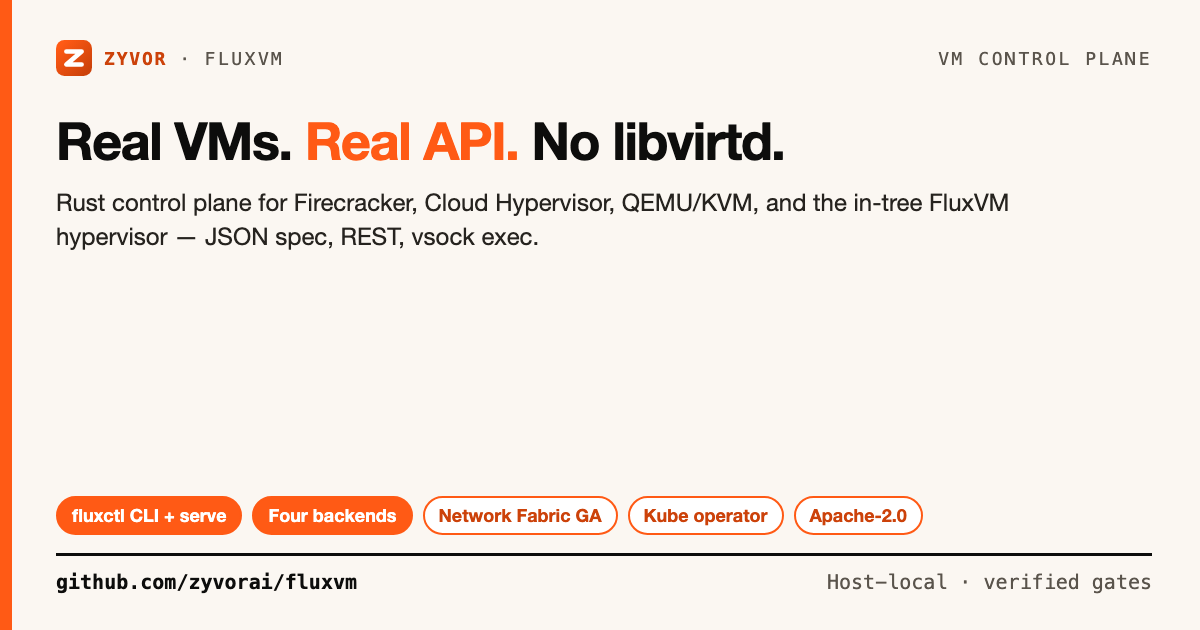
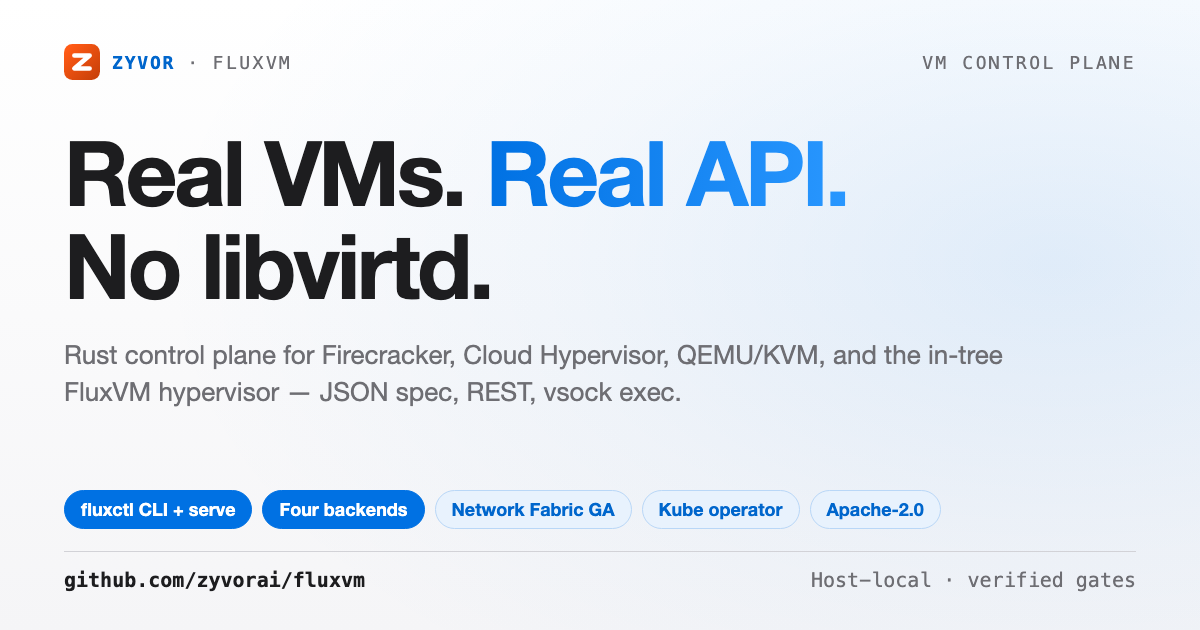
docs(social): apple-style blue/white hero, dark variant and cards
Regenerates the README hero as a light and a dark SVG/PNG (1x and 2x) from
one palette-driven generator, restyles the share and LinkedIn cards with the
same blue/white system, and documents the rebuild and the manual GitHub
social-preview upload. Orange appears once, as a dot on the FluxVM
hypervisor card.

Changed region(s): [[0.0, 0.0, 0.9867, 1.0], [0.7708, 0.0603, 0.9558, 0.1206]]

diff --git a/docs/social/fluxvm-social-card.html b/docs/social/fluxvm-social-card.html
@@ -4,38 +4,38 @@
 <meta charset="utf-8">
 <title>FluxVM social card</title>
 <style>
-  :root { --ink:#0d0d0c; --soft:#5a544c; --signal:#ff5a15; --deep:#cc420a; --warm:#fbf7f2;
-    --blue:#2b5fd9; --green:#1f7a4d;
+  :root { --ink:#1d1d1f; --soft:#6e6e73; --hair:#d2d2d7; --blue:#0071e3; --blue2:#2997ff; --deep:#0066cc; --wash:#f5f5f7; --navy:#0a4fa8;
     --sans:'Helvetica Neue',Helvetica,Arial,sans-serif; --mono:'SF Mono',Menlo,Consolas,monospace; }
   * { box-sizing:border-box; }
   html,body { margin:0; padding:0; }
-  body { width:1600px; height:900px; overflow:hidden; background:var(--warm); color:var(--ink); font-family:var(--sans); position:relative; }
-  .bar { position:absolute; left:0; top:0; bottom:0; width:14px; background:var(--signal); }
-  .wrap { position:absolute; left:72px; right:64px; top:48px; bottom:40px; display:flex; flex-direction:column; }
+  body { width:1600px; height:900px; overflow:hidden; color:var(--ink); font-family:var(--sans); position:relative;
+    background:radial-gradient(1200px 700px at 90% 38%, rgba(0,113,227,.10), rgba(0,113,227,.035) 55%, rgba(0,113,227,0) 100%), linear-gradient(180deg,#fff 0%,var(--wash) 100%); }
+  .bar { display:none; }
+  .wrap { position:absolute; left:80px; right:80px; top:52px; bottom:44px; display:flex; flex-direction:column; }
   .top { display:flex; align-items:center; gap:14px; font-family:var(--mono); font-size:20px; letter-spacing:.14em; text-transform:uppercase; color:var(--soft); }
   .top img { height:40px; }
   .top b { color:var(--deep); letter-spacing:.1em; }
   .top .r { margin-left:auto; }
-  h1 { margin:26px 0 0; font-size:68px; line-height:1.06; letter-spacing:-.025em; font-weight:700; max-width:1440px; }
-  h1 em { font-style:normal; color:var(--signal); }
-  .sub { margin:16px 0 0; font-size:27px; line-height:1.36; color:#26231f; max-width:1320px; }
-  .flow { margin-top:34px; display:grid; grid-template-columns:repeat(5,1fr); gap:34px; }
-  .step { position:relative; background:#fff; border:2.5px solid var(--c); border-radius:16px; padding:18px 20px 18px 24px; min-height:222px; }
-  .step::before { content:""; position:absolute; left:0; top:0; bottom:0; width:9px; background:var(--c); border-radius:13px 0 0 13px; }
-  .step:not(:last-child)::after { content:""; position:absolute; right:-31px; top:50%; width:0; height:0; margin-top:-11px;
-    border-left:16px solid var(--soft); border-top:11px solid transparent; border-bottom:11px solid transparent; }
-  .lane { display:inline-block; font-family:var(--mono); font-size:15px; font-weight:700; letter-spacing:.12em; color:#fff; background:var(--c); padding:3px 10px; border-radius:11px; }
-  .n { float:right; width:34px; height:34px; border-radius:50%; background:var(--c); color:#fff; font-weight:700; font-size:19px; line-height:34px; text-align:center; }
-  .step h3 { margin:14px 0 8px; font-size:27px; line-height:1.14; letter-spacing:-.01em; }
-  .step p { margin:0; font-size:20.5px; line-height:1.34; color:var(--soft); }
-  .k { --c:var(--signal); } .a { --c:var(--ink); } .c { --c:var(--blue); } .o { --c:var(--green); } .o2 { --c:var(--deep); }
-  .attr { margin-top:22px; display:flex; align-items:center; gap:16px; background:var(--ink); color:#f3ede4; border-radius:12px; padding:13px 22px; font-family:var(--mono); font-size:22px; white-space:nowrap; }
-  .attr .tag { color:var(--signal); font-weight:700; letter-spacing:.1em; font-size:16px; }
-  .attr .why { margin-left:auto; color:#a39a8d; font-size:15px; letter-spacing:.06em; text-transform:uppercase; }
+  h1 { margin:30px 0 0; font-size:78px; line-height:1.04; letter-spacing:-.03em; font-weight:700; max-width:1440px; }
+  h1 em { font-style:normal; background:linear-gradient(90deg,var(--blue),var(--blue2)); -webkit-background-clip:text; background-clip:text; color:transparent; }
+  .sub { margin:18px 0 0; font-size:27px; line-height:1.38; color:var(--soft); max-width:1320px; }
+  .flow { margin-top:36px; display:grid; grid-template-columns:repeat(5,1fr); gap:34px; }
+  .step { position:relative; background:#fff; border:1.5px solid var(--hair); border-radius:20px; padding:20px 20px 18px 26px; min-height:222px; box-shadow:0 10px 24px rgba(0,0,0,.06); }
+  .step::before { content:""; position:absolute; left:0; top:22px; bottom:22px; width:5px; background:var(--c); border-radius:0 4px 4px 0; }
+  .step:not(:last-child)::after { content:""; position:absolute; right:-30px; top:50%; width:0; height:0; margin-top:-10px;
+    border-left:14px solid #b0b0b5; border-top:10px solid transparent; border-bottom:10px solid transparent; }
+  .lane { display:inline-block; font-family:var(--mono); font-size:15px; font-weight:700; letter-spacing:.12em; color:#fff; background:var(--c); padding:4px 11px; border-radius:11px; }
+  .n { float:right; width:34px; height:34px; border-radius:50%; background:#f0f0f3; color:var(--ink); font-weight:700; font-size:18px; line-height:34px; text-align:center; }
+  .step h3 { margin:16px 0 8px; font-size:27px; line-height:1.14; letter-spacing:-.01em; }
+  .step p { margin:0; font-size:20.5px; line-height:1.36; color:var(--soft); }
+  .k { --c:var(--blue); } .a { --c:var(--ink); } .c { --c:var(--blue2); } .o { --c:var(--navy); } .o2 { --c:#6e6e73; }
+  .attr { margin-top:24px; display:flex; align-items:center; gap:16px; background:var(--ink); color:#f5f5f7; border-radius:16px; padding:14px 24px; font-family:var(--mono); font-size:22px; white-space:nowrap; }
+  .attr .tag { color:var(--blue2); font-weight:700; letter-spacing:.1em; font-size:16px; }
+  .attr .why { margin-left:auto; color:#a1a1a6; font-size:15px; letter-spacing:.06em; text-transform:uppercase; }
   .chips { margin-top:auto; padding-top:22px; display:flex; flex-wrap:wrap; gap:10px; }
-  .chip { font-size:20px; font-weight:700; padding:5px 14px; border-radius:20px; background:var(--signal); color:#fff; border:2px solid var(--signal); }
-  .chip.g { background:#fff; color:var(--deep); border:2px solid var(--signal); }
-  .foot { margin-top:18px; padding-top:14px; border-top:3px solid var(--ink); display:flex; align-items:center; font-family:var(--mono); font-size:22px; color:var(--soft); }
+  .chip { font-size:20px; font-weight:700; padding:6px 16px; border-radius:22px; background:var(--blue); color:#fff; border:1.5px solid var(--blue); }
+  .chip.g { background:#e8f2fd; color:var(--deep); border:1.5px solid #b9d7f7; }
+  .foot { margin-top:18px; padding-top:16px; border-top:1px solid var(--hair); display:flex; align-items:center; font-family:var(--mono); font-size:22px; color:var(--soft); }
   .foot b { color:var(--ink); }
   .foot .r { margin-left:auto; }
 </style>

diff --git a/docs/social/fluxvm-share-card.html b/docs/social/fluxvm-share-card.html
@@ -4,24 +4,25 @@
 <meta charset="utf-8">
 <title>FluxVM share card</title>
 <style>
-  :root { --ink:#0d0d0c; --soft:#5a544c; --signal:#ff5a15; --deep:#cc420a; --warm:#fbf7f2;
+  :root { --ink:#1d1d1f; --soft:#6e6e73; --hair:#d2d2d7; --blue:#0071e3; --blue2:#2997ff; --deep:#0066cc; --wash:#f5f5f7;
     --sans:'Helvetica Neue',Helvetica,Arial,sans-serif; --mono:'SF Mono',Menlo,Consolas,monospace; }
   * { box-sizing:border-box; }
   html,body { margin:0; padding:0; }
-  body { width:1200px; height:630px; overflow:hidden; background:var(--warm); color:var(--ink); font-family:var(--sans); position:relative; }
-  .bar { position:absolute; left:0; top:0; bottom:0; width:12px; background:var(--signal); }
-  .wrap { position:absolute; left:56px; right:48px; top:40px; bottom:36px; display:flex; flex-direction:column; }
+  body { width:1200px; height:630px; overflow:hidden; color:var(--ink); font-family:var(--sans); position:relative;
+    background:radial-gradient(900px 520px at 88% 42%, rgba(0,113,227,.11), rgba(0,113,227,.04) 55%, rgba(0,113,227,0) 100%), linear-gradient(180deg,#fff 0%,var(--wash) 100%); }
+  .bar { display:none; }
+  .wrap { position:absolute; left:64px; right:64px; top:44px; bottom:38px; display:flex; flex-direction:column; }
   .top { display:flex; align-items:center; gap:12px; font-family:var(--mono); font-size:18px; letter-spacing:.14em; text-transform:uppercase; color:var(--soft); }
   .top img { height:36px; }
   .top b { color:var(--deep); letter-spacing:.1em; }
   .top .r { margin-left:auto; }
-  h1 { margin:36px 0 0; font-size:52px; line-height:1.08; letter-spacing:-.025em; font-weight:700; max-width:1080px; }
-  h1 em { font-style:normal; color:var(--signal); }
-  .sub { margin:18px 0 0; font-size:24px; line-height:1.4; color:#26231f; max-width:980px; }
-  .chips { margin-top:auto; display:flex; flex-wrap:wrap; gap:10px; padding-bottom:18px; }
-  .chip { font-size:18px; font-weight:700; padding:6px 14px; border-radius:20px; background:var(--signal); color:#fff; border:2px solid var(--signal); }
-  .chip.g { background:#fff; color:var(--deep); border:2px solid var(--signal); }
-  .foot { padding-top:14px; border-top:3px solid var(--ink); display:flex; align-items:center; font-family:var(--mono); font-size:20px; color:var(--soft); }
+  h1 { margin:46px 0 0; font-size:90px; line-height:1.03; letter-spacing:-.035em; font-weight:700; max-width:1080px; }
+  h1 em { font-style:normal; background:linear-gradient(90deg,var(--blue),var(--blue2)); -webkit-background-clip:text; background-clip:text; color:transparent; }
+  .sub { margin:26px 0 0; font-size:26px; line-height:1.42; color:var(--soft); max-width:980px; }
+  .chips { margin-top:auto; display:flex; flex-wrap:wrap; gap:10px; padding-bottom:22px; }
+  .chip { font-size:18px; font-weight:700; padding:7px 16px; border-radius:22px; background:var(--blue); color:#fff; border:1.5px solid var(--blue); }
+  .chip.g { background:#e8f2fd; color:var(--deep); border:1.5px solid #b9d7f7; }
+  .foot { padding-top:16px; border-top:1px solid var(--hair); display:flex; align-items:center; font-family:var(--mono); font-size:20px; color:var(--soft); }
   .foot b { color:var(--ink); }
   .foot .r { margin-left:auto; }
 </style>
@@ -30,7 +31,7 @@
 <div class="bar"></div>
 <div class="wrap">
   <div class="top"><img src="zyvor-logo.svg" alt=""><b>Zyvor</b><span>&middot;</span><span>FluxVM</span><span class="r">VM control plane</span></div>
-  <h1>Real VMs. <em>Real API.</em> No libvirtd.</h1>
+  <h1>Real VMs. <em>Real API.</em><br>No libvirtd.</h1>
   <p class="sub">Rust control plane for Firecracker, Cloud Hypervisor, QEMU/KVM, and the in-tree FluxVM hypervisor — JSON spec, REST, vsock exec.</p>
   <div class="chips">
     <span class="chip">fluxctl CLI + serve</span>

diff --git a/docs/social/build-social-svg.py b/docs/social/build-social-svg.py
@@ -1,0 +1,142 @@
+import sys  # usage: python3 docs/social/build-social-svg.py docs/assets
+LIGHT = dict(
+    bg0="#ffffff", bg1="#f5f5f7", wash="#0071e3", wash_op="0.10", wash2_op="0.05",
+    ink="#1d1d1f", sec="#6e6e73", card="#ffffff", card_stroke="#d2d2d7", shadow_op="0.10",
+    blue0="#0071e3", blue1="#2997ff", link="#0071e3",
+    chip_fill="#e8f2fd", chip_text="#0066cc", chip_stroke="#b9d7f7",
+    wire="#0071e3", grid_op="0.0", tile_txt="#ffffff", api_sub="#dcecff", card_hi="#0071e3",
+    hair="#e5e5ea")
+DARK = dict(
+    bg0="#000000", bg1="#0b0b0f", wash="#2997ff", wash_op="0.20", wash2_op="0.08",
+    ink="#f5f5f7", sec="#a1a1a6", card="#1c1c1e", card_stroke="#3a3a3c", shadow_op="0.55",
+    blue0="#0a84ff", blue1="#5eb0ff", link="#2997ff",
+    chip_fill="#0b2542", chip_text="#66b2ff", chip_stroke="#17426f",
+    wire="#2997ff", grid_op="0.0", tile_txt="#ffffff", api_sub="#d6e9ff", card_hi="#2997ff",
+    hair="#2c2c2e")
+
+def svg(p):
+    return f'''<svg xmlns="http://www.w3.org/2000/svg" width="1280" height="640" viewBox="0 0 1280 640" role="img" aria-label="FluxVM — Real VMs. Real API. One Rust control plane and one REST API for Firecracker, Cloud Hypervisor, QEMU/KVM and the FluxVM hypervisor. No libvirtd, no XML.">
+  <defs>
+    <linearGradient id="bg" x1="0" y1="0" x2="0" y2="640" gradientUnits="userSpaceOnUse">
+      <stop offset="0" stop-color="{p['bg0']}"/>
+      <stop offset="1" stop-color="{p['bg1']}"/>
+    </linearGradient>
+    <radialGradient id="wash" cx="1010" cy="300" r="520" gradientUnits="userSpaceOnUse">
+      <stop offset="0" stop-color="{p['wash']}" stop-opacity="{p['wash_op']}"/>
+      <stop offset="0.6" stop-color="{p['wash']}" stop-opacity="{p['wash2_op']}"/>
+      <stop offset="1" stop-color="{p['wash']}" stop-opacity="0"/>
+    </radialGradient>
+    <linearGradient id="blue" x1="0" y1="0" x2="1" y2="1">
+      <stop offset="0" stop-color="{p['blue0']}"/>
+      <stop offset="1" stop-color="{p['blue1']}"/>
+    </linearGradient>
+    <linearGradient id="blueText" x1="78" y1="0" x2="470" y2="0" gradientUnits="userSpaceOnUse">
+      <stop offset="0" stop-color="{p['blue0']}"/>
+      <stop offset="1" stop-color="{p['blue1']}"/>
+    </linearGradient>
+    <linearGradient id="wire" x1="0" y1="0" x2="1" y2="0">
+      <stop offset="0" stop-color="{p['wire']}" stop-opacity="0.9"/>
+      <stop offset="1" stop-color="{p['wire']}" stop-opacity="0.35"/>
+    </linearGradient>
+    <filter id="shadow" x="-20%" y="-30%" width="140%" height="180%" color-interpolation-filters="sRGB">
+      <feGaussianBlur in="SourceAlpha" stdDeviation="9"/>
+      <feOffset dy="8" result="b"/>
+      <feColorMatrix in="b" type="matrix" values="0 0 0 0 0  0 0 0 0 0  0 0 0 0 0  0 0 0 {p['shadow_op']} 0" result="s"/>
+      <feMerge><feMergeNode in="s"/><feMergeNode in="SourceGraphic"/></feMerge>
+    </filter>
+    <filter id="glow" x="-30%" y="-40%" width="160%" height="200%" color-interpolation-filters="sRGB">
+      <feGaussianBlur in="SourceAlpha" stdDeviation="14"/>
+      <feOffset dy="12" result="b"/>
+      <feColorMatrix in="b" type="matrix" values="0 0 0 0 0.0  0 0 0 0 0.35  0 0 0 0 0.9  0 0 0 0.30 0" result="s"/>
+      <feMerge><feMergeNode in="s"/><feMergeNode in="SourceGraphic"/></feMerge>
+    </filter>
+  </defs>
+
+  <rect width="1280" height="640" fill="url(#bg)"/>
+  <rect width="1280" height="640" fill="url(#wash)"/>
+
+  <!-- brand lockup -->
+  <rect x="80" y="64" width="64" height="64" rx="15" fill="url(#blue)"/>
+  <path d="M96.5 79.5 127.5 79.5 96.5 112.5 127.5 112.5" fill="none" stroke="#ffffff"
+        stroke-width="8" stroke-linecap="round" stroke-linejoin="round"/>
+  <text x="162" y="108" font-family="'Helvetica Neue',Helvetica,Arial,sans-serif"
+        font-size="40" font-weight="700" fill="{p['ink']}" letter-spacing="-0.8">FluxVM</text>
+
+  <!-- headline -->
+  <text font-family="'Helvetica Neue',Helvetica,Arial,sans-serif" font-size="80" font-weight="700"
+        letter-spacing="-2.4">
+    <tspan x="76" y="252" fill="{p['ink']}">Real VMs.</tspan>
+    <tspan x="76" y="336" fill="url(#blueText)">Real API.</tspan>
+  </text>
+
+  <!-- sub -->
+  <g font-family="'Helvetica Neue',Helvetica,Arial,sans-serif" font-size="26" fill="{p['sec']}">
+    <text x="80" y="398">One Rust control plane. One REST API.</text>
+    <text x="80" y="434">No libvirtd, no XML.</text>
+  </g>
+
+  <!-- proof chips -->
+  <g font-family="'Menlo','JetBrains Mono',monospace" font-size="17" font-weight="700" fill="{p['chip_text']}">
+    <rect x="80" y="478" width="222" height="46" rx="23" fill="{p['chip_fill']}" stroke="{p['chip_stroke']}"/>
+    <text x="102" y="507">Network Fabric GA</text>
+    <rect x="316" y="478" width="150" height="46" rx="23" fill="{p['chip_fill']}" stroke="{p['chip_stroke']}"/>
+    <text x="338" y="507">Apache-2.0</text>
+    <rect x="480" y="478" width="242" height="46" rx="23" fill="{p['chip_fill']}" stroke="{p['chip_stroke']}"/>
+    <text x="502" y="507">k3s + 2-host tested</text>
+  </g>
+
+  <!-- diagram: one API fans out to four VMMs -->
+  <g>
+    <g fill="none" stroke="url(#wire)" stroke-width="2.5" stroke-linecap="round">
+      <path d="M912 320 C 940 320, 940 170, 956 170"/>
+      <path d="M912 320 C 940 320, 940 266, 956 266"/>
+      <path d="M912 320 C 940 320, 940 374, 956 374"/>
+      <path d="M912 320 C 940 320, 940 470, 956 470"/>
+    </g>
+    <g fill="{p['wire']}">
+      <circle cx="912" cy="320" r="5.5"/>
+      <circle cx="956" cy="170" r="4.5"/>
+      <circle cx="956" cy="266" r="4.5"/>
+      <circle cx="956" cy="374" r="4.5"/>
+      <circle cx="956" cy="470" r="4.5"/>
+    </g>
+
+    <rect x="722" y="262" width="190" height="116" rx="26" fill="url(#blue)" filter="url(#glow)"/>
+    <text x="817" y="312" text-anchor="middle" font-family="'Helvetica Neue',Helvetica,Arial,sans-serif"
+          font-size="30" font-weight="700" fill="#ffffff">REST API</text>
+    <text x="817" y="346" text-anchor="middle" font-family="'Menlo','JetBrains Mono',monospace"
+          font-size="16" fill="{p['api_sub']}">fluxctl serve</text>
+
+    <g font-family="'Helvetica Neue',Helvetica,Arial,sans-serif">
+      <rect x="964" y="138" width="246" height="64" rx="16" fill="{p['card']}" stroke="{p['card_stroke']}" filter="url(#shadow)"/>
+      <text x="986" y="166" font-size="21" font-weight="700" fill="{p['ink']}">Firecracker</text>
+      <text x="986" y="187" font-size="14" font-family="'Menlo',monospace" fill="{p['sec']}">microVM · jailer</text>
+
+      <rect x="964" y="234" width="246" height="64" rx="16" fill="{p['card']}" stroke="{p['card_stroke']}" filter="url(#shadow)"/>
+      <text x="986" y="262" font-size="21" font-weight="700" fill="{p['ink']}">Cloud Hypervisor</text>
+      <text x="986" y="283" font-size="14" font-family="'Menlo',monospace" fill="{p['sec']}">Rust VMM</text>
+
+      <rect x="964" y="342" width="246" height="64" rx="16" fill="{p['card']}" stroke="{p['card_stroke']}" filter="url(#shadow)"/>
+      <text x="986" y="370" font-size="21" font-weight="700" fill="{p['ink']}">QEMU / KVM</text>
+      <text x="986" y="391" font-size="14" font-family="'Menlo',monospace" fill="{p['sec']}">qcow2 · QMP</text>
+
+      <rect x="964" y="438" width="246" height="64" rx="16" fill="{p['card']}" stroke="{p['card_hi']}" stroke-opacity="0.75" stroke-width="1.5" filter="url(#shadow)"/>
+      <text x="986" y="466" font-size="21" font-weight="700" fill="{p['ink']}">FluxVM hypervisor</text>
+      <text x="986" y="487" font-size="14" font-family="'Menlo',monospace" fill="{p['sec']}">snapshots · sandboxes</text>
+      <circle cx="1192" cy="456" r="5" fill="#ff6a2a"/>
+    </g>
+  </g>
+
+  <!-- footer -->
+  <line x1="80" y1="556" x2="1200" y2="556" stroke="{p['hair']}" stroke-width="1"/>
+  <text x="80" y="598" font-family="'Helvetica Neue',Helvetica,Arial,sans-serif" font-size="18"
+        fill="{p['sec']}">Secure, isolated VMs on Linux · Host-local libvirt replacement</text>
+  <text x="1200" y="586" text-anchor="end" font-family="'Menlo','JetBrains Mono',monospace"
+        font-size="16" fill="{p['sec']}">github.com/zyvorai/fluxvm</text>
+  <text x="1200" y="614" text-anchor="end" font-family="'Helvetica Neue',Helvetica,Arial,sans-serif"
+        font-size="24" font-weight="700" fill="{p['link']}">zyvor.dev</text>
+</svg>
+'''
+out=sys.argv[1]
+open(f"{out}/social-preview.svg","w").write(svg(LIGHT))
+open(f"{out}/social-preview-dark.svg","w").write(svg(DARK))

diff --git a/docs/social/README.md b/docs/social/README.md
@@ -1,8 +1,23 @@
 # Social assets
 
+Palette (apple.com style): white `#ffffff` / `#f5f5f7`, ink `#1d1d1f`, secondary `#6e6e73`,
+hairline `#d2d2d7`, blue `#0071e3` to `#2997ff`. Dark variant: `#000` / `#0b0b0f`, text `#f5f5f7`,
+cards `#1c1c1e`, blue `#2997ff`. Orange (`#ff6a2a`) appears once, as a dot on the in-tree
+FluxVM hypervisor card; the Zyvor logo file keeps its brand colour.
+
 | File | What it is | Rebuild |
 |---|---|---|
-| `fluxvm-share-card.png` | 1200×630 README hero / Open Graph | `./docs/social/build-social-card.sh` |
-| `fluxvm-social-card.html` / `.jpg` | 1600×900 LinkedIn / X | same script |
+| `../assets/social-preview.svg` / `.png` / `@2x.png` | 1280x640 README hero, light | `python3 docs/social/build-social-svg.py docs/assets` then `rsvg-convert -w 1280 docs/assets/social-preview.svg -o docs/assets/social-preview.png` (`-w 2560` for `@2x`) |
+| `../assets/social-preview-dark.svg` / `.png` / `@2x.png` | Same card for GitHub's dark theme | same, with `social-preview-dark` |
+| `fluxvm-share-card.png` | 1200x630 Open Graph / repository social preview | `./docs/social/build-social-card.sh` |
+| `fluxvm-social-card.html` / `.jpg` | 1600x900 LinkedIn / X | same script |
 
-Needs Google Chrome and macOS `sips`.
+`build-social-svg.py` holds the light and dark palettes and generates both SVGs from one layout, so
+they cannot drift apart. `rsvg-convert` (librsvg) renders the PNGs; the HTML cards need Google Chrome
+and macOS `sips`.
+
+## GitHub repository social preview
+
+GitHub's repository **Social preview** is not settable through the API or `gh`. After changing the
+card, upload `docs/social/fluxvm-share-card.png` by hand: repository **Settings > General > Social
+preview > Edit > Upload an image**.
